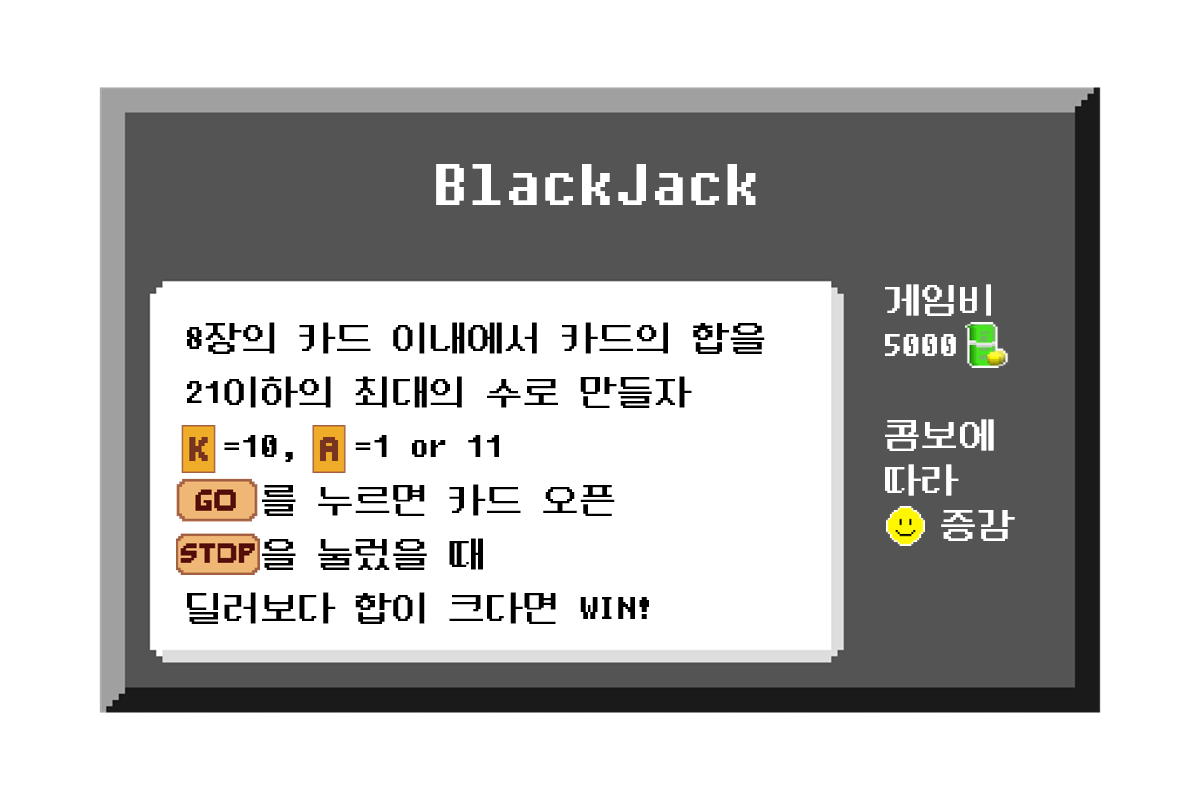
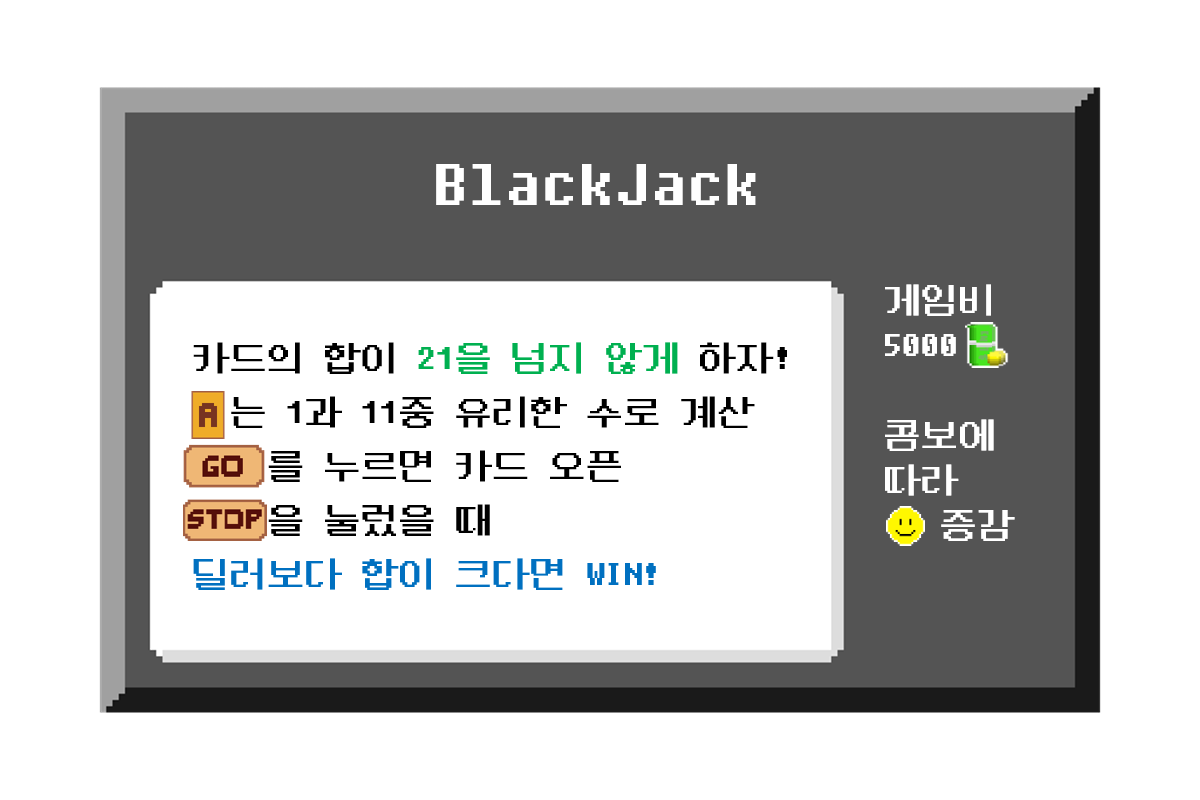
피드백 반영
튜토리얼 문구 수정
카드 k를 10으로 변경
남은 카드 및 현재 판돈 표시

Changed region(s): [[0.1233, 0.4062, 0.6783, 0.7812]]

diff --git a/blackjack.js b/blackjack.js
@@ -53,7 +53,7 @@ class BlackJack extends Phaser.Scene{
         this.load.image('card6', '/assets/blackjack/card 6.png')
         this.load.image('card7', '/assets/blackjack/card 7.png')
         this.load.image('card9', '/assets/blackjack/card 9.png')
-        this.load.image('cardk', '/assets/blackjack/card k.png')
+        this.load.image('cardk', '/assets/blackjack/card10.png')
 
         this.load.image('bg_tile','/assets/blackjack/bg_pattern4.png')
         this.load.image('board','/assets/blackjack/board.png')
@@ -64,6 +64,7 @@ class BlackJack extends Phaser.Scene{
         this.load.image('ending','/assets/blackjack/버튼포함창.png')
         this.load.image('ok_button','/assets/blackjack/확인버튼.png')
         this.load.bitmapFont('myfont', '/assets/main/font/font.png', '/assets/main/font/font.fnt');
+        this.load.bitmapFont('whitefont', '/assets/main/white/white.png', '/assets/main/white/white.fnt');
     }
     create() {
 
@@ -133,8 +134,10 @@ class BlackJack extends Phaser.Scene{
         this.button_result.setVisible(false)
 
         this.gameState = this.GAME_START
-        this.playText=this.add.bitmapText(200,225,'myfont','WIN!! 한판더?',36)
+        this.playText=this.add.bitmapText(250,225,'whitefont','WIN!! 한판더?',36)
         this.playText.setVisible(false);
+        this.remainCard=this.add.bitmapText(400,230,'whitefont','남은카드:'+(8-this.cardNum)+"장",15)
+        this.moneyText=this.add.bitmapText(400,270,'whitefont','MONEY:'+Math.abs(this.money),15)
 
     }
     
@@ -142,7 +145,30 @@ class BlackJack extends Phaser.Scene{
         var rand;
         var card;
         if (this.gameState == this.GAME_START) {
+            if(this.cardNum==0){
+                this.remainCard.setVisible(true)
+                var cardname = this.random_card(this.PLAYER);
+                this.cardNum+=1;
+                var cardY=410;
+                card = this.add.image(this.cardlocate, cardY, cardname, 0);
+                this.cards.add(card)
+                card.scale = 0.2
+                var cardY=100;
+
+                var temp=this.cardlocate
+                cardname = this.random_card(this.DEALER);
+                //this.cardNum += 1;
+                this.cardlocate = 768/2-512/2+10+75
+                
+                card = this.add.image(this.cardlocate, cardY, cardname, 0);
+                this.cards.add(card)
+                card.scale = 0.2
+
+                this.cardlocate=temp
+            }
         if (this.click_go) {  // 클릭 시 카드 추가
+                this.remainCard.setText('남은카드:'+(8-this.cardNum)+"장")
+
                 var cardname = this.random_card(this.PLAYER);
                 this.cardNum+=1;
                 var cardY=410;
@@ -177,8 +203,8 @@ class BlackJack extends Phaser.Scene{
                 this.Aappear=false;
                 console.log(this.gameState)
                 // 딜러 카드 오픈
-                this.cardlocate = 768/2-512/2+10
-                this.cardNum=0;
+                this.cardlocate = 768/2-512/2+10+75
+                this.cardNum=1;
                 var cardY=100;
                 while (this.dealerSum1 <=11 && this.cardNum<8) {
                     var cardname = this.random_card(this.DEALER);
@@ -229,7 +255,9 @@ class BlackJack extends Phaser.Scene{
                     }
                     this.gameState = this.GAME_OVER
                 }
+                this.moneyText.setText('MONEY:'+Math.abs(this.money))
                 this.click_stop = false
+                this.remainCard.setVisible(false)
             }
         }
         if (this.gameState == this.TURN_STOP && this.playNum<5) {
@@ -243,6 +271,7 @@ class BlackJack extends Phaser.Scene{
                 this.click_go = false
                 this.gameState = this.GAME_START
                 this.money *= 2
+                this.moneyText.setText('MONEY:'+Math.abs(this.money))
             }
             if (this.click_stop) {
                 this.click_stop = false
@@ -252,9 +281,11 @@ class BlackJack extends Phaser.Scene{
             this.gameState=this.GAME_OVER
         }
         if (this.gameState == this.GAME_OVER) {
+                this.remainCard.setVisible(false)
+                this.moneyText.setVisible(false)
             this.button_go.setVisible(false)
             this.button_stop.setVisible(false)
-            this.playText.setX(300)
+            this.playText.setX(250)
             if(this.money>0){
                 this.playText.setText('WIN!!')
             }else
